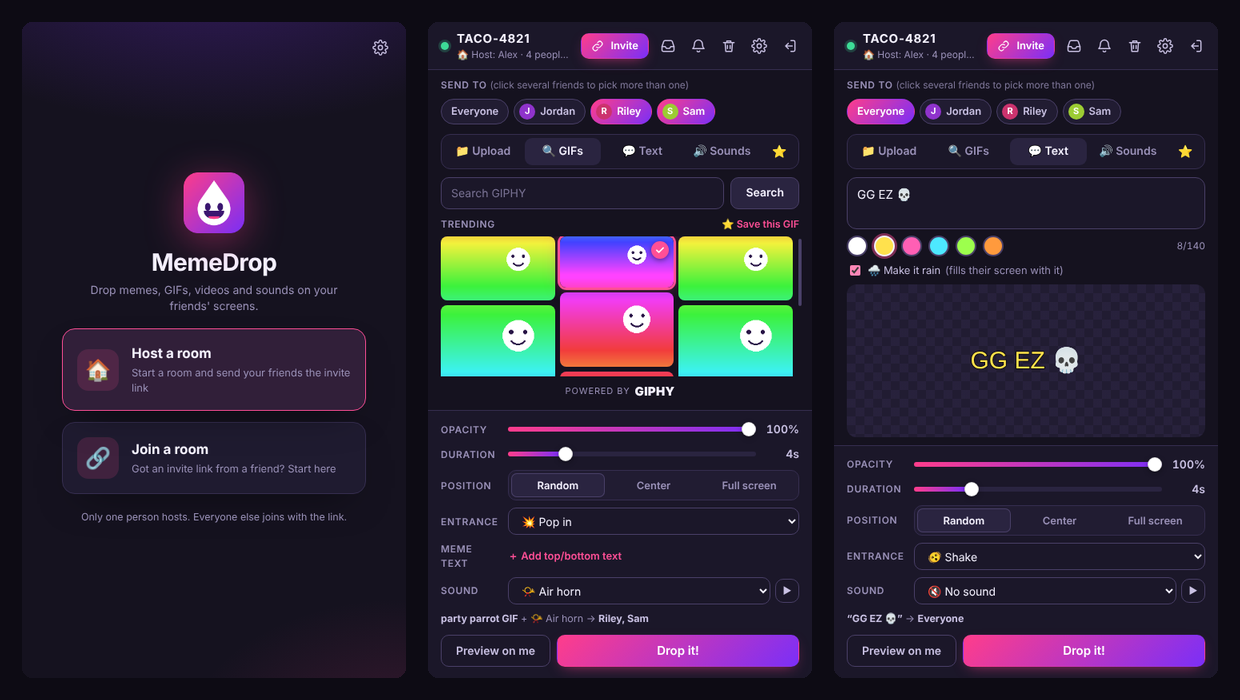
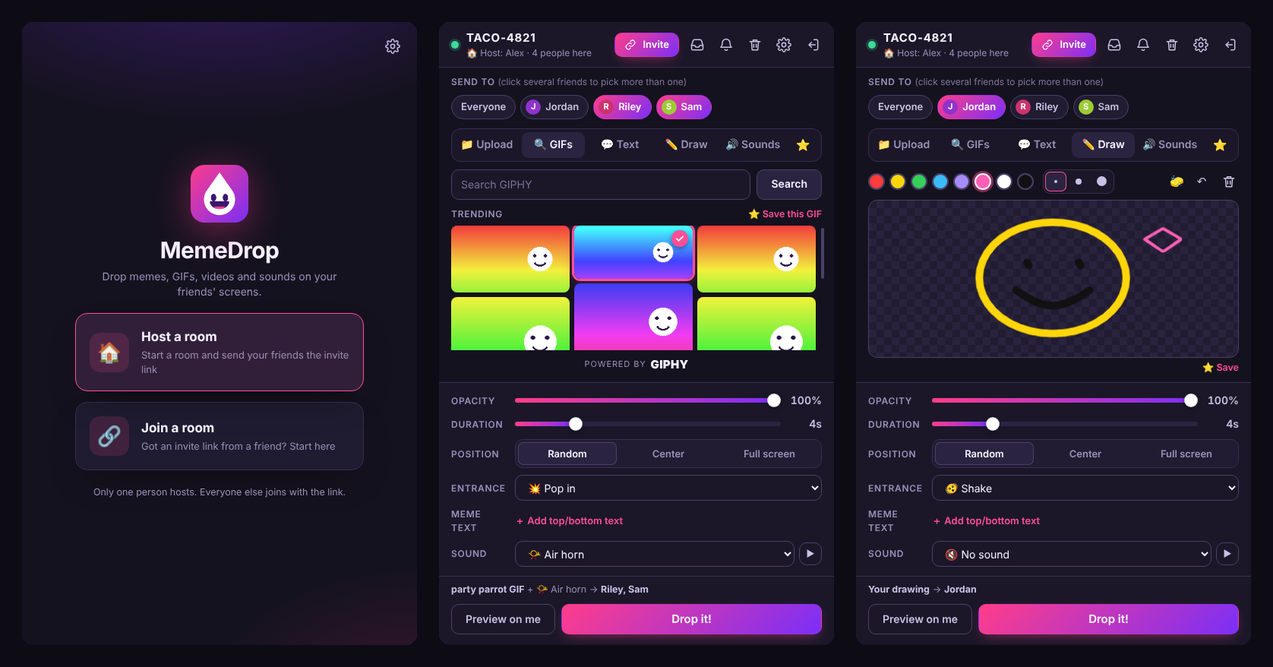
README screenshots with the Draw tab and the wider window
Claude-Session: https://claude.ai/code/session_01JmXU7uwFXHB81srdErqxdf

diff --git a/README.md b/README.md
@@ -7,7 +7,7 @@ One friend clicks **Host a room** and sends everyone the invite link. Everyone e
 **No terminal, no config files, no accounts.** Everything is done by clicking in the app.
 
 <p align="center">
-  <img src="docs/app.png" alt="MemeDrop: the welcome screen, sending a GIF with an air horn to two friends, and the Text tab with Make it rain" width="760">
+  <img src="docs/app.png" alt="MemeDrop: the welcome screen, sending a GIF with an air horn to two friends, and a drawing on the Draw tab" width="760">
 </p>
 <p align="center">
   <img src="docs/overlay.png" alt="A captioned meme and a GG EZ message floating over someone's apps, with emoji reactions in the corner" width="640">
@@ -65,7 +65,7 @@ Anyone in the room can click **Invite** (top bar) to copy the link and bring mor
 4. **Preview on me** shows it on your own screen first. **Drop it!** (or **Ctrl+Enter**) sends it.
 
 <p align="center">
-  <img src="docs/features.png" alt="Adding meme text and a spin entrance to an upload, the Saved tab, and the inbox with emoji reactions" width="760">
+  <img src="docs/features.png" alt="A message set to rain down a friend's screen, the Saved tab, and the inbox with emoji reactions" width="760">
 </p>
 
 ## Getting memes
